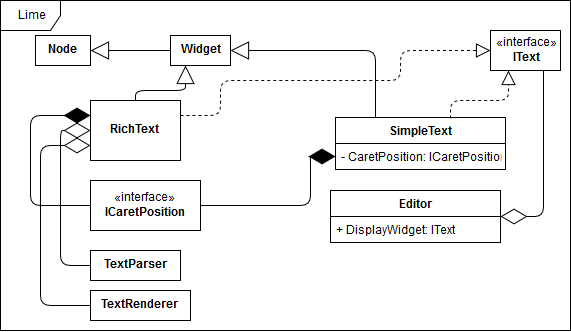
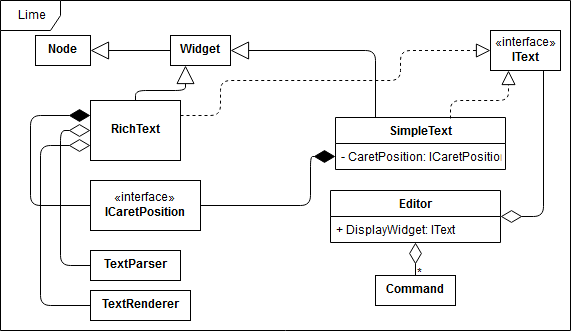
Smells like final version

diff --git a/diploma.tex b/diploma.tex
@@ -18,7 +18,7 @@
 	\setsupervisor{Кленин А.С.}
 	
 	\makereporttitle
-	\tableofcontents
+	\maketableofcontents
 	\newpage
 	
 	\begin{abstract}
@@ -27,7 +27,6 @@
 		движка. В работе изложены особенности реализации и принятые решения.
 		Выполнено сравнение производительности между предыдущей версией редактора и
 		новой реализацией.
-		\par \textbf{ОБНОВИТЬ объем кода, поменять таблицы на fefutable}
 	\end{abstract}
 
 	\section{Введение}
@@ -352,30 +351,26 @@
 			\subsubsection{Сравнение}
 				\par{Для наглядности построим сравнительную таблицу (см. Табл. 
 				\ref{table:MethodComplexity})}
-				\begin{table}[H]
-					\centering
-					\begin{tabular}{|p{4cm}|*{4}{p{3cm}|}}
-						\hline 
-						\textbf{Подход} & \textbf{Вставка и удаление} & 
-						\textbf{Обращение по номеру} & \textbf{Обращение по 
-						координатам} & \textbf{Вставка в позиции курсора}\\
-						\hline
-						Массив & $O(n)$ & $O(1)$ & $O(n)$ & $O(n)$ \\
-						\hline
-						Буферное окно & $O(n)$ & $O(1)$ & $O(n)$ & $O(1)$ \\
-						\hline
-						Связный список & $O(n)$ & $O(n)$ & $O(n)$ & $O(1)$ \\
-						\hline
-						Набор строк & $O(s + k)$ & $O(1)$ & $O(1)$ &  $O(k)$ \\
-						\hline
-						Rope & $O(\log{m})$ & $O(\log{m})$ & $O(n)$ & $O(\log{m})$ \\
-						\hline
-						Piece Tree & $O(\log{m})$ & $O(\log{m})$ & $O(n)$ & $O(1)$ \\
-						\hline
-					\end{tabular}
-					\caption{Сравнение алгоритмических сложностей подходов}
-					\label{table:MethodComplexity}
-				\end{table}
+				\begin{fefutable}[H]{|p{4cm}|*{4}{p{3cm}|}}{Сравнение алгоритмических 
+					сложностей подходов\label{table:MethodComplexity}}
+					\hline 
+					\textbf{Подход} & \textbf{Вставка и удаление} & 
+					\textbf{Обращение по номеру} & \textbf{Обращение по 
+					координатам} & \textbf{Вставка в позиции курсора}\\
+					\hline
+					Массив & $O(n)$ & $O(1)$ & $O(n)$ & $O(n)$ \\
+					\hline
+					Буферное окно & $O(n)$ & $O(1)$ & $O(n)$ & $O(1)$ \\
+					\hline
+					Связный список & $O(n)$ & $O(n)$ & $O(n)$ & $O(1)$ \\
+					\hline
+					Набор строк & $O(s + k)$ & $O(1)$ & $O(1)$ &  $O(k)$ \\
+					\hline
+					Rope & $O(\log{m})$ & $O(\log{m})$ & $O(n)$ & $O(\log{m})$ \\
+					\hline
+					Piece Tree & $O(\log{m})$ & $O(\log{m})$ & $O(n)$ & $O(1)$ \\
+					\hline
+				\end{fefutable}
 				\par Здесь:
 				\begin{itemize}
 					\item $s$ --- кол-во строк 
@@ -511,34 +506,30 @@
 			\subsubsection{PieceTreeNode}
 				\par Узел расширяющегося дерева, хранит информацию о 
 				текстовых фрагментах (см. Таблица \ref{table:PieceTreeNode}).
-				\begin{table}[h]
-					\centering
-					\begin{tabular}{|l|l|p{10cm}|}
-						\hline
-						\textbf{Имя поля} & \textbf{Тип данных} & \textbf{Описание} \\
-						\hline
-						Left & PieceTreeNode & Ссылка на левого потомка\\
-						\hline
-						Right & PieceTreeNode & Ссылка на правого потомка \\
-						\hline
-						Parent & PieceTreeNode & Ссылка на родителя \\
-						\hline
-						Owner & PieceTree & Ссылка на дерево, содержащее данный узел \\
-						\hline
-						Position & Целое число & Позиция, с которой фрагмент начинается в 
-						итоговом тексте \\
-						\hline
-						Length & Целое число & Длина текстового фрагмента \\
-						\hline
-						IsOrigin & Логический тип & Истинно, если фрагмент является частью 
-						исходного потока \\
-						\hline
-						FilePosition & Целое число & Позиция начала фрагмента в потоке \\
-						\hline
-					\end{tabular}
-					\caption{Структура PieceTreeNode}
-					\label{table:PieceTreeNode}
-				\end{table}
+				\begin{fefutable}[h]{|l|l|p{10cm}|}{Структура 
+					PieceTreeNode\label{table:PieceTreeNode}}
+					\hline
+					\textbf{Имя поля} & \textbf{Тип данных} & \textbf{Описание} \\
+					\hline
+					Left & PieceTreeNode & Ссылка на левого потомка\\
+					\hline
+					Right & PieceTreeNode & Ссылка на правого потомка \\
+					\hline
+					Parent & PieceTreeNode & Ссылка на родителя \\
+					\hline
+					Owner & PieceTree & Ссылка на дерево, содержащее данный узел \\
+					\hline
+					Position & Целое число & Позиция, с которой фрагмент начинается в 
+					итоговом тексте \\
+					\hline
+					Length & Целое число & Длина текстового фрагмента \\
+					\hline
+					IsOrigin & Логический тип & Истинно, если фрагмент является частью 
+					исходного потока \\
+					\hline
+					FilePosition & Целое число & Позиция начала фрагмента в потоке \\
+					\hline
+				\end{fefutable}
 			\subsubsection{PieceTree}
 				\par Расширяющееся дерево, узлами которого являются
 				PieceTreeNode. В нём выполняются все операции, необходимые для поиска,
@@ -578,104 +569,84 @@
 				\par Существует лемма \cite{SplayTreeArticle}, доказывающая, что 
 				амортизационная сложность операции не превосходит $O(\log{n})$, где $n$ -- 
 				число узлов.
-				\begin{table}[H]
-					\centering
-					\begin{tabular}{|l|l|p{10cm}|}
-						\hline
-						\textbf{Имя поля} & \textbf{Тип данных} & \textbf{Описание} \\
-						\hline
-						Root & PieceTreeNode & Ссылка на корень дерева \\
-						\hline
-						OriginStream & Поток данных & Ссылка на исходный поток данных \\
-						\hline
-						AddStream & Поток данных & Ссылка на добавочный поток данных \\
-						\hline
-						undoStack & UndoStack & Ссылка на структуру, хранящую стек операций \\
-						\hline
-					\end{tabular}
-					\caption{Структура PieceTree}
-					\label{table:PieceTree}
-				\end{table}
+				\begin{fefutable}[H]{|l|l|p{10cm}|}{Структура PieceTree\label{table:PieceTree}}
+					\hline
+					\textbf{Имя поля} & \textbf{Тип данных} & \textbf{Описание} \\
+					\hline
+					Root & PieceTreeNode & Ссылка на корень дерева \\
+					\hline
+					OriginStream & Поток данных & Ссылка на исходный поток данных \\
+					\hline
+					AddStream & Поток данных & Ссылка на добавочный поток данных \\
+					\hline
+					undoStack & UndoStack & Ссылка на структуру, хранящую стек операций \\
+					\hline
+				\end{fefutable}
 			\subsubsection{Word}
 				\par Структура для хранения информации об отдельном слове (см. Таблица 
 				\ref{table:Word}).
-				\begin{table}[h]
-					\centering
-					\begin{tabular}{|l|l|p{9cm}|}
-						\hline
-						\textbf{Имя поля} & \textbf{Тип данных} & \textbf{Описание} \\
-						\hline
-						TextIndex & Целое число & Позиция в массиве текстов \\
-						\hline
-						Start & Целое число & Номер первого символа слова в тексте \\
-						\hline
-						Length & Целое число & Длина слова \\
-						\hline
-						ForceLineBreak & Логический тип & Истинно, если перед словом стоял
-						символ переноса строки\\
-						\hline 
-						X & Вещественное число & Позиция в пикселях по горизонтали \\
-						\hline 
-						Width & Вещественное число & Ширина в пикселях \\
-						\hline
-						LineBreak & Логический тип & Истинно, если слово необходимо перенести
-						на следующую строку из-за soft-wrap \\
-						\hline
-						IsNbsp & Логический тип & Истинно, если слово содержит неразрывный
-						пробел\\
-						\hline
-					\end{tabular}
-					\caption{Структура Word}
-					\label{table:Word}
-				\end{table}
+				\begin{fefutable}[h]{|l|l|p{9cm}|}{Структура Word\label{table:Word}}
+					\hline
+					\textbf{Имя поля} & \textbf{Тип данных} & \textbf{Описание} \\
+					\hline
+					TextIndex & Целое число & Позиция в массиве текстов \\
+					\hline
+					Start & Целое число & Номер первого символа слова в тексте \\
+					\hline
+					Length & Целое число & Длина слова \\
+					\hline
+					ForceLineBreak & Логический тип & Истинно, если перед словом стоял
+					символ переноса строки\\
+					\hline 
+					X & Вещественное число & Позиция в пикселях по горизонтали \\
+					\hline 
+					Width & Вещественное число & Ширина в пикселях \\
+					\hline
+					LineBreak & Логический тип & Истинно, если слово необходимо перенести
+					на следующую строку из-за soft-wrap \\
+					\hline
+					IsNbsp & Логический тип & Истинно, если слово содержит неразрывный
+					пробел\\
+					\hline
+				\end{fefutable}
 			\subsubsection{Line}
 				\par Структура для хранения информации о строках текста (см. Таблица 
 				\ref{table:Line}).
-				\begin{table}[H]
-					\centering
-					\begin{tabular}{|l|l|p{9cm}|}
-						\hline
-						\textbf{Имя поля} & \textbf{Тип данных} & \textbf{Описание} \\
-						\hline
-						Position & Целое число & Номер в тексте первого символа первого слова 
-						\\
-						\hline
-						Length  & Целое число & Длина строки в символах \\
-						\hline
-						StartWordIndex & Целое число & Индекс первого слова в массиве слов \\
-						\hline
-						WordCount & Целое число & Количество слов в строке \\
-						\hline
-						Width & Вещественное число & Ширина строки в пикселях \\
-						\hline
-						Height & Вещественное число & Высота строки в пикселях \\
-						\hline
-						Offset & Вещественное число & Суммарная высота предыдущих строк \\
-						\hline
-					\end{tabular}
-					\caption{Структура Line}
-					\label{table:Line}
-				\end{table}
+				\begin{fefutable}[H]{|l|l|p{9cm}|}{Структура Line\label{table:Line}}
+					\hline
+					\textbf{Имя поля} & \textbf{Тип данных} & \textbf{Описание} \\
+					\hline
+					Position & Целое число & Номер в тексте первого символа первого слова 
+					\\
+					\hline
+					Length  & Целое число & Длина строки в символах \\
+					\hline
+					StartWordIndex & Целое число & Индекс первого слова в массиве слов \\
+					\hline
+					WordCount & Целое число & Количество слов в строке \\
+					\hline
+					Width & Вещественное число & Ширина строки в пикселях \\
+					\hline
+					Height & Вещественное число & Высота строки в пикселях \\
+					\hline
+					Offset & Вещественное число & Суммарная высота предыдущих строк \\
+					\hline
+				\end{fefutable}
 			\subsubsection{Command}
 				\par Вспомогательная структура данных для операций undo/redo. Хранит в себе
 				копию части дерева определенного размера, в зависимости от типа хранимой
 				команды и операции выполняет вставку копии в основное дерево или удаление
 				части основного дерева (см. Таблица \ref{table:Command}).
-				\begin{table}[h]
-					\centering
-					\begin{tabular}{|l|l|p{9cm}|}
-						\hline
-						\textbf{Имя поля} & \textbf{Тип данных} & \textbf{Описание} \\
-						\hline
-						CommandType & Перечисляемый тип & Тип команды, может быть "Insert" или 
-						"Delete" \\
-						\hline
-						Node & PieceTreeNode & Корневой узел хранимой копии дерева \\
-						\hline
-					\end{tabular}
-					\caption{Структура Command}
-					\label{table:Command}
-				\end{table}
+				\begin{fefutable}[h]{|l|l|p{9cm}|}{Структура Command\label{table:Command}}
+					\hline
+					\textbf{Имя поля} & \textbf{Тип данных} & \textbf{Описание} \\
+					\hline
+					CommandType & Перечисляемый тип & Тип команды, может быть "Insert" или 
+					"Delete" \\
+					\hline
+					Node & PieceTreeNode & Корневой узел хранимой копии дерева \\
+					\hline
+				\end{fefutable}
 		\subsection{Модули и алгоритмы}
 			\subsubsection{Обработка внутреннего представления текста}
 				\par Данный модуль состоит из следующих классов (см. Рис. 
@@ -744,7 +715,7 @@
 				\end{itemize}
 				\begin{figure}[H]
 					\centering
-					\includegraphics[width=0.7\linewidth]{diagrams/ScrollView.png}
+					\includegraphics[width=0.5\linewidth]{diagrams/ScrollView.png}
 					\caption{Диаграмма классов виджетов прокрутки}
 					\label{diag:ScrollView}
 				\end{figure}
@@ -814,7 +785,7 @@
 				\caption{Декорированный виджет CommonText}
 			\end{figure}
 	\section{Реализация и тестирование}
-		\par Объем кода: 5132 строки, ~149 кб.
+		\par Объем кода: 10420 добавлений, 2291 удалений, \~149 кб (итоговый).
 		\par Число коммитов: 58
 		\par Количество автотестов: 63. Тестами покрывался модуль обработки внутреннего 
 		представления текста, уровень покрытия -- 90\%.
@@ -845,6 +816,8 @@
 			текста в старой версии редактора занимает, в среднем 6.8 секунд. В новой 
 			версии -- 4.3 секунды. При этом в старой версии текста, помимо прочего, после 
 			каждой вставки пересчитывается новая позиция курсора.
+			\par Тестирование проводилось на ПК с ОС Windows 10 актуальной версии, CPU Intel
+			Core i5-8400.
 	\section*{Заключение}
 		\par Таким образом, в процессе выпускной квалификационной работы:
 		\begin{itemize}
